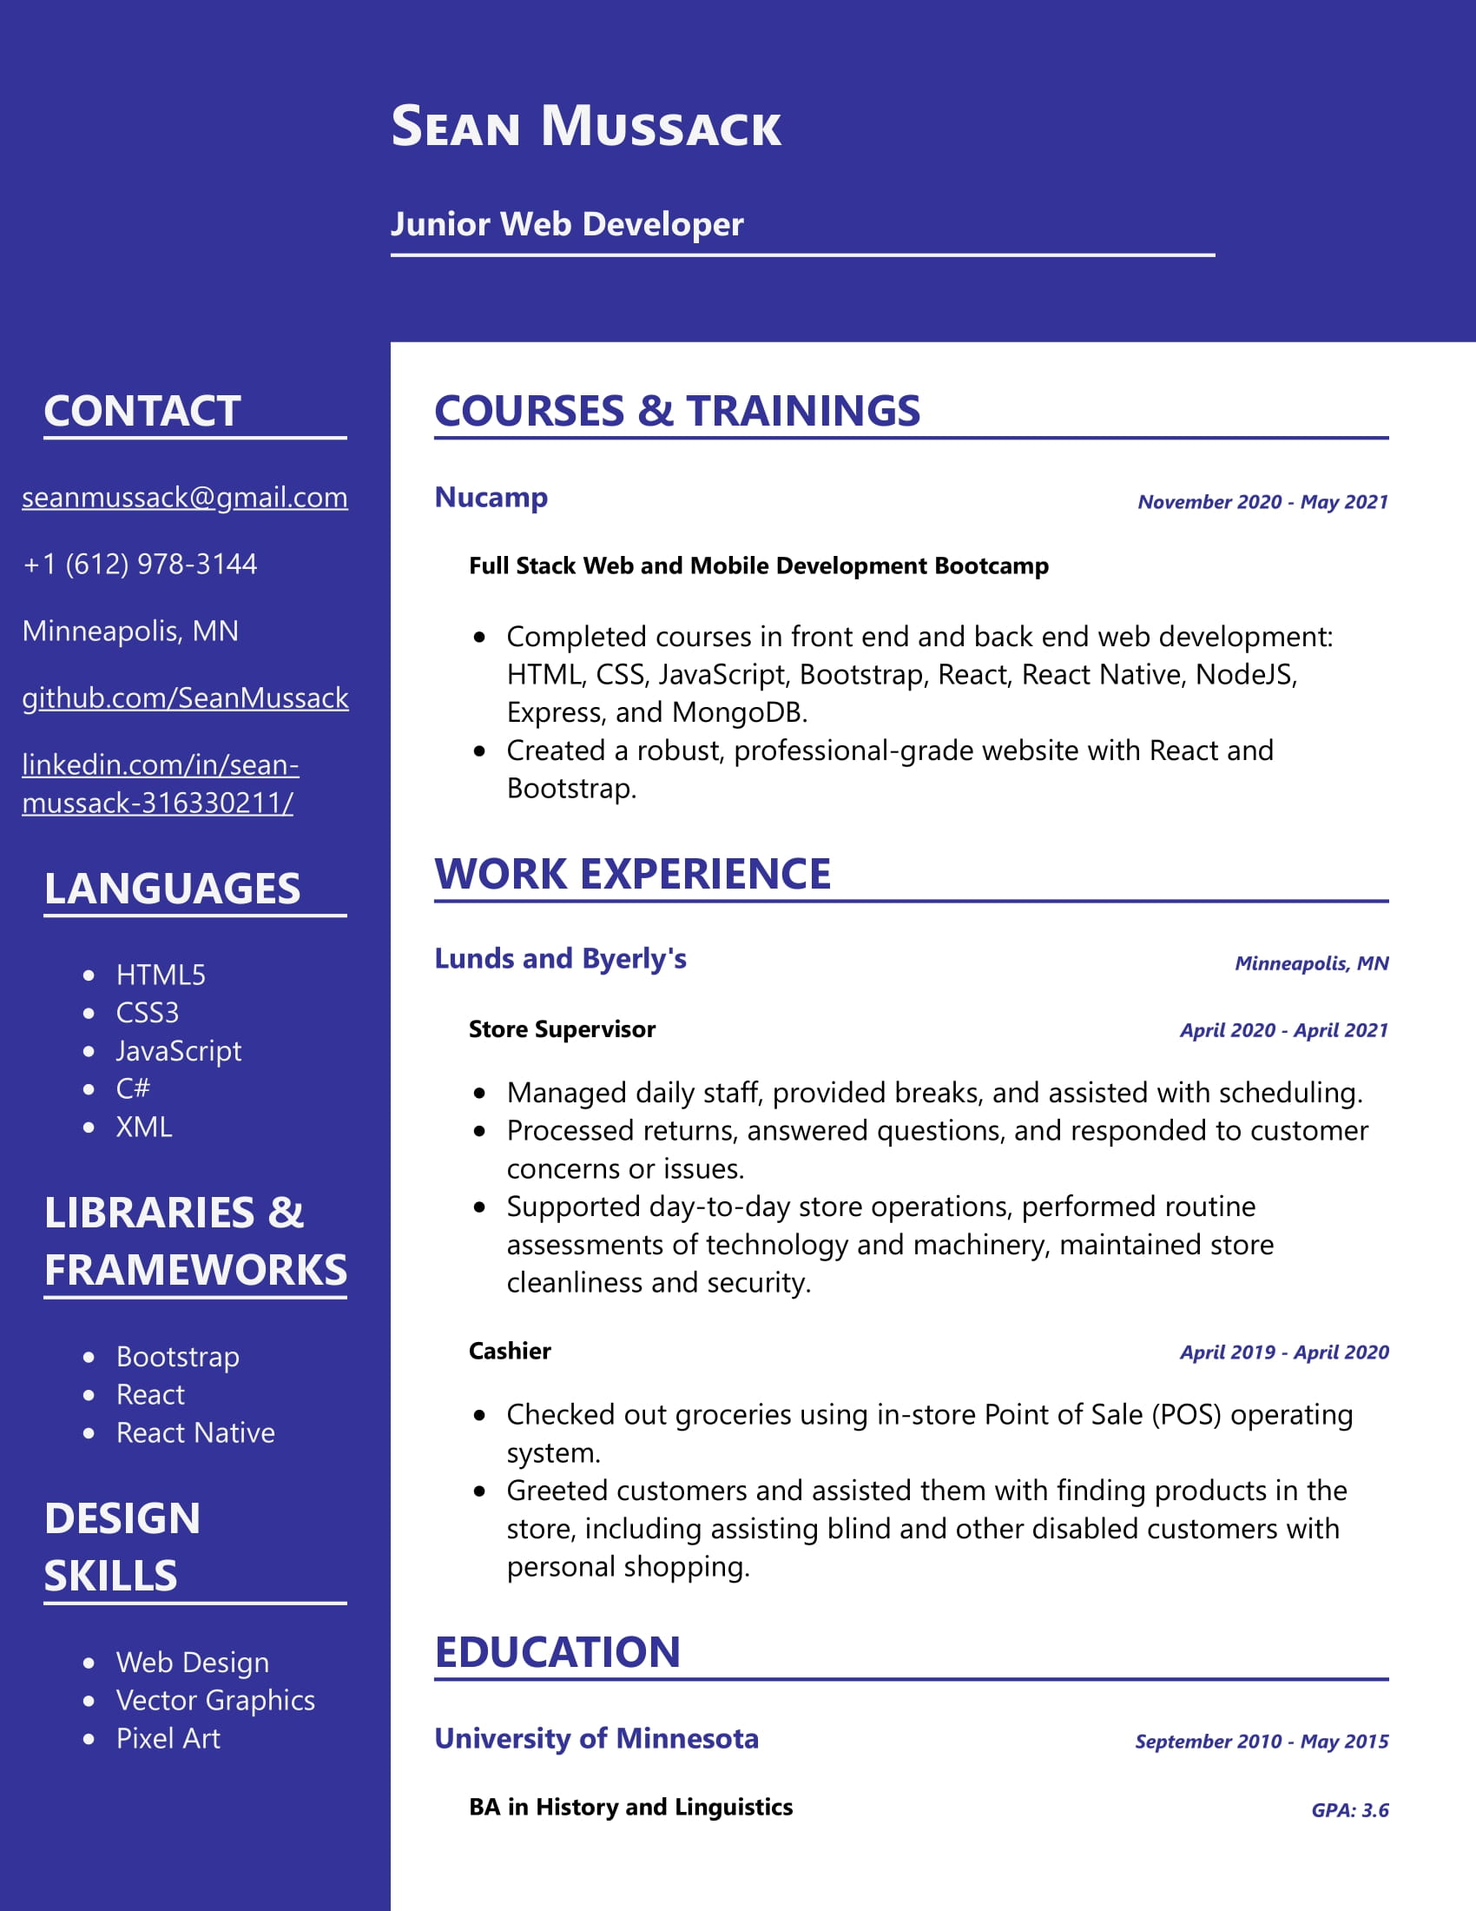
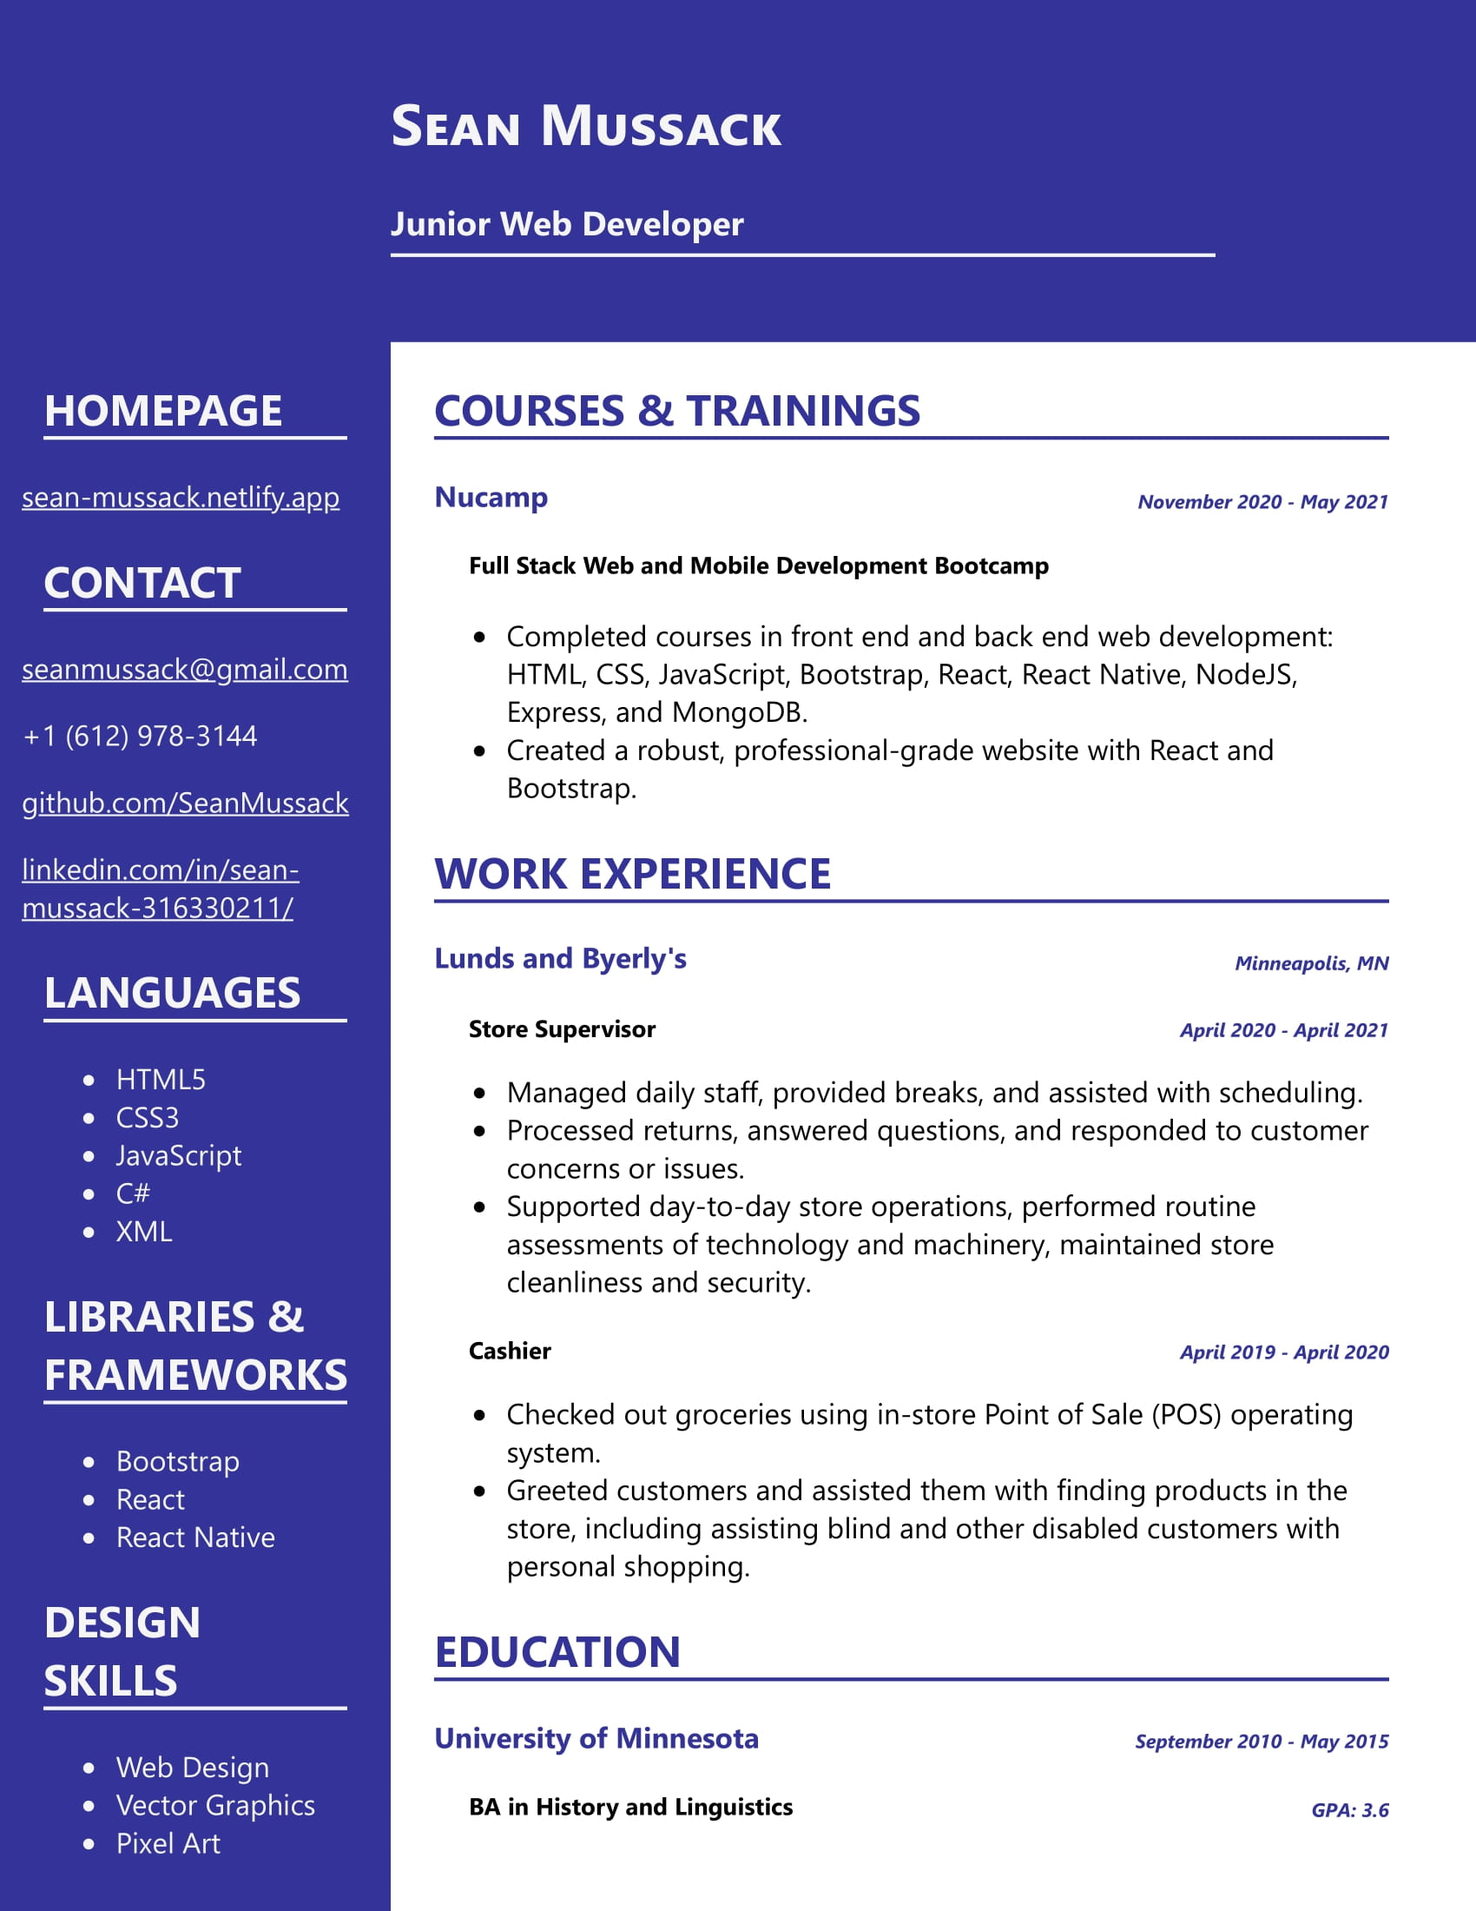
Updates

Changed region(s): [[0.0, 0.1855, 0.2494, 0.9891], [0.1559, 0.8036, 0.1871, 0.8345]]

diff --git a/static/js/main.2e8c46e6.chunk.js b/static/js/main.2e8c46e6.chunk.js
@@ -1,0 +1,2 @@
+(this["webpackJsonppersonal-website"]=this["webpackJsonppersonal-website"]||[]).push([[0],{34:function(e,t,n){},35:function(e,t,n){},51:function(e,t,n){"use strict";n.r(t);var s=n(2),a=n.n(s),r=n(18),c=n.n(r),i=(n(34),n(7)),l=n(8),o=n(11),j=n(10),b=(n.p,n(35),n(4)),m=n(19),u=n(52),h=n(53),d=n(54),O=n(55),x=n(16),f=n(0);function p(){return Object(f.jsx)(x.b,{to:"home",children:Object(f.jsx)("img",{src:"/sean-mussack-initials-final.svg",alt:"My personal logo: the letters S M",className:"logo"})})}function g(e){return Object(f.jsx)(s.Fragment,{children:e.map((function(e){return t=e,Object(f.jsx)(u.a,{className:"col-6 col-sm-3",children:Object(f.jsx)(x.b,{to:t.href,className:"nav-link py-1 py-sm-3",children:t.name})});var t}))})}var y=function(e){Object(o.a)(n,e);var t=Object(j.a)(n);function n(e){var s;return Object(i.a)(this,n),(s=t.call(this,e)).props={pages:null},s}return Object(l.a)(n,[{key:"render",value:function(){return Object(f.jsxs)(h.a,{className:"row-flex px-3",children:[Object(f.jsx)(d.a,{xs:6,sm:4,children:Object(f.jsx)(p,{})}),Object(f.jsx)(O.a,{className:"col-6 col-sm-8",children:g(this.props.pages)})]})}}]),n}(s.Component),v=n(56),N=n(57),w=n(15),T=function(e){Object(o.a)(n,e);var t=Object(j.a)(n);function n(e){var s;return Object(i.a)(this,n),(s=t.call(this,e)).props={pages:null},s}return Object(l.a)(n,[{key:"render",value:function(){return Object(f.jsx)(w.Stagger,{in:!0,className:"stagger",children:this.props.pages.map((function(e){return Object(f.jsx)(w.FadeTransform,{transformProps:{enterTransform:"translateX(0px)",exitTransform:"translateX(-20%)"},children:Object(f.jsx)("div",{className:"page-button-row row justify-content-center",children:Object(f.jsx)(x.b,{to:e.href,className:"page-button d-inline-flex justify-content-center btn color-"+e.color,children:Object(f.jsxs)(v.a,{className:"",children:[Object(f.jsx)(d.a,{className:"col-1 offset-3",children:Object(f.jsx)("i",{className:"fas fa-sm fa-"+e.icon,"aria-hidden":"true"})}),Object(f.jsx)(d.a,{className:"col-4 offset-0",children:e.name}),Object(f.jsx)(d.a,{className:"col-1 offset-0",children:Object(f.jsx)("i",{className:"fas fa-lg fa-angle-right","aria-hidden":"true"})})]})})})},e.name)}))})}}]),n}(s.Component),k=function(e){Object(o.a)(n,e);var t=Object(j.a)(n);function n(e){var s;return Object(i.a)(this,n),(s=t.call(this,e)).props={pages:null},s}return Object(l.a)(n,[{key:"render",value:function(){return Object(f.jsx)(N.a,{className:"home-page-container",children:Object(f.jsx)(T,{pages:this.props.pages})})}}]),n}(s.Component),F="/lily_md.jpg";function C(){return Object(f.jsx)("div",{className:"d-flex justify-content-center",children:Object(f.jsx)("img",{className:"avatar",src:"/avatar_md.jpg",alt:"My avatar"})})}function M(){return Object(f.jsx)(s.Fragment,{children:Object(f.jsxs)("p",{children:[Object(f.jsx)("h3",{children:"Hello world!"}),Object(f.jsxs)("ul",{children:[Object(f.jsx)("h5",{children:"Sean Mussack at a glance:"}),Object(f.jsx)("li",{children:"Location: Minneapolis, MN, USA"}),Object(f.jsx)("li",{children:"Pronouns: they/them or she/her"}),Object(f.jsx)("li",{children:"Pet: Lily the rabbit"})]}),Object(f.jsxs)("ul",{children:[Object(f.jsx)("h5",{children:"Things I Love:"}),Object(f.jsx)("li",{children:"Animals"}),Object(f.jsx)("li",{children:"Pixel Art"}),Object(f.jsx)("li",{children:"World History"})]})]})})}function P(){return Object(f.jsxs)(s.Fragment,{children:[Object(f.jsx)("div",{className:"d-none d-sm-flex justify-content-center",children:Object(f.jsx)("img",{className:"lily",src:F,alt:"My rabbit, Lily, who has white fur with black ears and eyes"})}),Object(f.jsx)("div",{className:"d-flex d-sm-none",children:Object(f.jsx)("img",{className:"lily position-absolute bottom-0 end-0 mb-5",src:F,alt:"My rabbit, Lily, who has white fur with black ears and eyes"})})]})}var S=function(e){Object(o.a)(n,e);var t=Object(j.a)(n);function n(){return Object(i.a)(this,n),t.apply(this,arguments)}return Object(l.a)(n,[{key:"render",value:function(){return Object(f.jsx)(N.a,{fluid:!0,className:"about-page-container",children:Object(f.jsxs)(v.a,{children:[Object(f.jsx)(d.a,{xs:12,sm:3,className:"offset-sm-1",children:Object(f.jsx)(w.FadeTransform,{in:!0,transformProps:{enterTransform:"translateX(0px)",exitTransform:"translateX(-20%)"},children:Object(f.jsx)(C,{})},"About")}),Object(f.jsx)(d.a,{xs:12,sm:4,children:Object(f.jsx)(w.Fade,{in:!0,children:Object(f.jsx)(M,{})})}),Object(f.jsx)(d.a,{children:Object(f.jsx)(w.FadeTransform,{in:!0,transformProps:{enterTransform:"translateX(0px)",exitTransform:"translateX(20%)"},children:Object(f.jsx)(P,{})},"About")})]})})}}]),n}(s.Component);function X(){return Object(f.jsxs)("a",{href:"/Sean Mussack's resume.pdf",download:!0,className:"btn btn-warning download-button",children:[Object(f.jsx)("i",{className:"fas fa-download"}),"Download"]})}var A=function(e){Object(o.a)(n,e);var t=Object(j.a)(n);function n(){return Object(i.a)(this,n),t.apply(this,arguments)}return Object(l.a)(n,[{key:"render",value:function(){return Object(f.jsx)(N.a,{fluid:!0,className:"resume-container",children:Object(f.jsxs)(v.a,{children:[Object(f.jsx)(d.a,{xs:12,sm:6,className:"resume-left-col",children:Object(f.jsxs)(w.FadeTransform,{in:!0,transformProps:{enterTransform:"translateX(0px)",exitTransform:"translateX(-20%)"},children:[Object(f.jsx)("p",{children:"PDF version of my resume:"}),Object(f.jsx)("p",{children:Object(f.jsx)(X,{})})]})}),Object(f.jsx)(d.a,{xs:12,sm:6,className:"px-md-5 mt-sm-5",children:Object(f.jsx)(w.FadeTransform,{in:!0,transformProps:{enterTransform:"translateX(0px)",exitTransform:"translateX(20%)"},children:Object(f.jsx)("img",{className:"resume-img img-fluid",src:"/Sean Mussack's resume-1.jpg",alt:"My resume in .pdf format"})},"About")})]})})}}]),n}(s.Component),L=[{name:"About",href:"about",color:"cyan",icon:"user"},{name:"Resume",href:"resume",color:"magenta",icon:"file"},{name:"Projects",href:"projects",color:"yellow",icon:"star"},{name:"Contact",href:"contact",color:"white",icon:"paper-plane"}],D=function(e){Object(o.a)(n,e);var t=Object(j.a)(n);function n(e){return Object(i.a)(this,n),t.call(this,e)}return Object(l.a)(n,[{key:"render",value:function(){return Object(f.jsxs)(s.Fragment,{children:[Object(f.jsx)(y,{pages:L}),Object(f.jsx)(m.TransitionGroup,{className:"transition-group",children:Object(f.jsx)(m.CSSTransition,{classNames:"page",timeout:300,children:Object(f.jsxs)(b.d,{className:"switch",children:[Object(f.jsx)(b.b,{path:"/home",render:function(){return Object(f.jsx)(k,{pages:L})}}),Object(f.jsx)(b.b,{path:"/about",component:S}),Object(f.jsx)(b.b,{path:"/resume",component:A}),Object(f.jsx)(b.a,{to:"/home"})]})},this.props.location.key)})]})}}]),n}(s.Component),I=Object(b.g)(D),B=function(e){Object(o.a)(n,e);var t=Object(j.a)(n);function n(){return Object(i.a)(this,n),t.apply(this,arguments)}return Object(l.a)(n,[{key:"render",value:function(){return Object(f.jsx)(x.a,{children:Object(f.jsx)("div",{className:"App",children:Object(f.jsx)(I,{})})})}}]),n}(s.Component),H=function(e){e&&e instanceof Function&&n.e(3).then(n.bind(null,58)).then((function(t){var n=t.getCLS,s=t.getFID,a=t.getFCP,r=t.getLCP,c=t.getTTFB;n(e),s(e),a(e),r(e),c(e)}))};n(49),n(50);c.a.render(Object(f.jsx)(a.a.StrictMode,{children:Object(f.jsx)(B,{})}),document.getElementById("root")),H()}},[[51,1,2]]]);
+//# sourceMappingURL=main.2e8c46e6.chunk.js.map

diff --git a/index.html b/index.html
@@ -1,1 +1,1 @@
-<!doctype html><html lang="en"><head><meta charset="utf-8"/><link rel="icon" href="/favicon.ico"/><meta name="viewport" content="width=device-width,initial-scale=1"/><meta name="theme-color" content="#000000"/><meta name="description" content="Web site created using create-react-app"/><link rel="apple-touch-icon" href="/logo192.png"/><link rel="manifest" href="/manifest.json"/><title>React App</title><link href="/static/css/2.f6015af9.chunk.css" rel="stylesheet"><link href="/static/css/main.67181102.chunk.css" rel="stylesheet"></head><body><noscript>You need to enable JavaScript to run this app.</noscript><div id="root"></div><script>!function(e){function r(r){for(var n,a,i=r[0],c=r[1],l=r[2],s=0,p=[];s<i.length;s++)a=i[s],Object.prototype.hasOwnProperty.call(o,a)&&o[a]&&p.push(o[a][0]),o[a]=0;for(n in c)Object.prototype.hasOwnProperty.call(c,n)&&(e[n]=c[n]);for(f&&f(r);p.length;)p.shift()();return u.push.apply(u,l||[]),t()}function t(){for(var e,r=0;r<u.length;r++){for(var t=u[r],n=!0,i=1;i<t.length;i++){var c=t[i];0!==o[c]&&(n=!1)}n&&(u.splice(r--,1),e=a(a.s=t[0]))}return e}var n={},o={1:0},u=[];function a(r){if(n[r])return n[r].exports;var t=n[r]={i:r,l:!1,exports:{}};return e[r].call(t.exports,t,t.exports,a),t.l=!0,t.exports}a.e=function(e){var r=[],t=o[e];if(0!==t)if(t)r.push(t[2]);else{var n=new Promise((function(r,n){t=o[e]=[r,n]}));r.push(t[2]=n);var u,i=document.createElement("script");i.charset="utf-8",i.timeout=120,a.nc&&i.setAttribute("nonce",a.nc),i.src=function(e){return a.p+"static/js/"+({}[e]||e)+"."+{3:"fefadf44"}[e]+".chunk.js"}(e);var c=new Error;u=function(r){i.onerror=i.onload=null,clearTimeout(l);var t=o[e];if(0!==t){if(t){var n=r&&("load"===r.type?"missing":r.type),u=r&&r.target&&r.target.src;c.message="Loading chunk "+e+" failed.\n("+n+": "+u+")",c.name="ChunkLoadError",c.type=n,c.request=u,t[1](c)}o[e]=void 0}};var l=setTimeout((function(){u({type:"timeout",target:i})}),12e4);i.onerror=i.onload=u,document.head.appendChild(i)}return Promise.all(r)},a.m=e,a.c=n,a.d=function(e,r,t){a.o(e,r)||Object.defineProperty(e,r,{enumerable:!0,get:t})},a.r=function(e){"undefined"!=typeof Symbol&&Symbol.toStringTag&&Object.defineProperty(e,Symbol.toStringTag,{value:"Module"}),Object.defineProperty(e,"__esModule",{value:!0})},a.t=function(e,r){if(1&r&&(e=a(e)),8&r)return e;if(4&r&&"object"==typeof e&&e&&e.__esModule)return e;var t=Object.create(null);if(a.r(t),Object.defineProperty(t,"default",{enumerable:!0,value:e}),2&r&&"string"!=typeof e)for(var n in e)a.d(t,n,function(r){return e[r]}.bind(null,n));return t},a.n=function(e){var r=e&&e.__esModule?function(){return e.default}:function(){return e};return a.d(r,"a",r),r},a.o=function(e,r){return Object.prototype.hasOwnProperty.call(e,r)},a.p="/",a.oe=function(e){throw console.error(e),e};var i=this["webpackJsonppersonal-website"]=this["webpackJsonppersonal-website"]||[],c=i.push.bind(i);i.push=r,i=i.slice();for(var l=0;l<i.length;l++)r(i[l]);var f=c;t()}([])</script><script src="/static/js/2.d72226ef.chunk.js"></script><script src="/static/js/main.4d2a8b5a.chunk.js"></script></body></html>
+<!doctype html><html lang="en"><head><meta charset="utf-8"/><link rel="icon" href="/favicon.ico"/><meta name="viewport" content="width=device-width,initial-scale=1"/><meta name="theme-color" content="#000000"/><meta name="description" content="Web site created using create-react-app"/><link rel="apple-touch-icon" href="/logo192.png"/><link rel="manifest" href="/manifest.json"/><title>React App</title><link href="/static/css/2.f6015af9.chunk.css" rel="stylesheet"><link href="/static/css/main.995d4231.chunk.css" rel="stylesheet"></head><body><noscript>You need to enable JavaScript to run this app.</noscript><div id="root"></div><script>!function(e){function r(r){for(var n,a,i=r[0],c=r[1],l=r[2],s=0,p=[];s<i.length;s++)a=i[s],Object.prototype.hasOwnProperty.call(o,a)&&o[a]&&p.push(o[a][0]),o[a]=0;for(n in c)Object.prototype.hasOwnProperty.call(c,n)&&(e[n]=c[n]);for(f&&f(r);p.length;)p.shift()();return u.push.apply(u,l||[]),t()}function t(){for(var e,r=0;r<u.length;r++){for(var t=u[r],n=!0,i=1;i<t.length;i++){var c=t[i];0!==o[c]&&(n=!1)}n&&(u.splice(r--,1),e=a(a.s=t[0]))}return e}var n={},o={1:0},u=[];function a(r){if(n[r])return n[r].exports;var t=n[r]={i:r,l:!1,exports:{}};return e[r].call(t.exports,t,t.exports,a),t.l=!0,t.exports}a.e=function(e){var r=[],t=o[e];if(0!==t)if(t)r.push(t[2]);else{var n=new Promise((function(r,n){t=o[e]=[r,n]}));r.push(t[2]=n);var u,i=document.createElement("script");i.charset="utf-8",i.timeout=120,a.nc&&i.setAttribute("nonce",a.nc),i.src=function(e){return a.p+"static/js/"+({}[e]||e)+"."+{3:"fefadf44"}[e]+".chunk.js"}(e);var c=new Error;u=function(r){i.onerror=i.onload=null,clearTimeout(l);var t=o[e];if(0!==t){if(t){var n=r&&("load"===r.type?"missing":r.type),u=r&&r.target&&r.target.src;c.message="Loading chunk "+e+" failed.\n("+n+": "+u+")",c.name="ChunkLoadError",c.type=n,c.request=u,t[1](c)}o[e]=void 0}};var l=setTimeout((function(){u({type:"timeout",target:i})}),12e4);i.onerror=i.onload=u,document.head.appendChild(i)}return Promise.all(r)},a.m=e,a.c=n,a.d=function(e,r,t){a.o(e,r)||Object.defineProperty(e,r,{enumerable:!0,get:t})},a.r=function(e){"undefined"!=typeof Symbol&&Symbol.toStringTag&&Object.defineProperty(e,Symbol.toStringTag,{value:"Module"}),Object.defineProperty(e,"__esModule",{value:!0})},a.t=function(e,r){if(1&r&&(e=a(e)),8&r)return e;if(4&r&&"object"==typeof e&&e&&e.__esModule)return e;var t=Object.create(null);if(a.r(t),Object.defineProperty(t,"default",{enumerable:!0,value:e}),2&r&&"string"!=typeof e)for(var n in e)a.d(t,n,function(r){return e[r]}.bind(null,n));return t},a.n=function(e){var r=e&&e.__esModule?function(){return e.default}:function(){return e};return a.d(r,"a",r),r},a.o=function(e,r){return Object.prototype.hasOwnProperty.call(e,r)},a.p="/",a.oe=function(e){throw console.error(e),e};var i=this["webpackJsonppersonal-website"]=this["webpackJsonppersonal-website"]||[],c=i.push.bind(i);i.push=r,i=i.slice();for(var l=0;l<i.length;l++)r(i[l]);var f=c;t()}([])</script><script src="/static/js/2.d72226ef.chunk.js"></script><script src="/static/js/main.2e8c46e6.chunk.js"></script></body></html>

diff --git a/static/css/main.995d4231.chunk.css b/static/css/main.995d4231.chunk.css
@@ -1,0 +1,2 @@
+body{margin:0;font-family:-apple-system,BlinkMacSystemFont,"Segoe UI","Roboto","Oxygen","Ubuntu","Cantarell","Fira Sans","Droid Sans","Helvetica Neue",sans-serif;-webkit-font-smoothing:antialiased;-moz-osx-font-smoothing:grayscale}code{font-family:source-code-pro,Menlo,Monaco,Consolas,"Courier New",monospace}body{max-height:-webkit-fit-content;max-height:-moz-fit-content;max-height:fit-content;overflow:hidden}.App{min-height:100vh;background-color:#111;color:#f5f5f5}.navbar{height:90px;background-color:#000;text-align:center}.logo{height:70px}.nav-item{font-size:larger}.nav-item .nav-link{color:#f5f5f5;border-radius:10px}.nav-item .nav-link:focus,.nav-item .nav-link:hover{color:#f5f5f5;background-color:#222}@media (prefers-reduced-motion:no-preference){.logo:hover{animation:Logo-wiggle .3s ease-out infinite}}@keyframes Logo-wiggle{0%{transform:rotate(0deg)}30%{transform:rotate(-5deg)}70%{transform:rotate(5deg)}to{transform:rotate(0deg)}}.home-page-container{margin:10vh;max-width:90%}.page-button{height:80px;margin:5vh}.page-button:hover{transform:scale3d(1.03,1.1,1)}.page-button-row .page-button,.page-button-row .page-button:hover{color:#000;font-weight:bolder}.page-button-row .color-white{background-color:#fff}.page-button-row .color-cyan{background-color:#0ff}.page-button-row .color-magenta{background-color:#f0f}.page-button-row .color-yellow{background-color:#ff0}.page-button .row{width:inherit;transform:translateY(20%)}.page-button .col{font-size:x-large}@media (prefers-reduced-motion:no-preference){.page-button:hover .fa-angle-right{animation:Arrow-icon-hover 1s linear infinite}.page-button:active{animation:Page-button-on-press 1s linear}}@keyframes Arrow-icon-hover{0%{transform:translateX(0)}to{transform:translateX(20vw)}}@keyframes Page-button-on-press{0%{transform:translateX(0)}to{transform:translateX(150vw)}}.about-page-container{text-align:center;padding-top:30px;max-height:calc(100vh - 90px)}.avatar,.lily{border-radius:200px}.avatar{width:30vh;border:0 solid #136}.about-page-container p{padding:10vh 0}.about-page-container h3{font-feature-settings:"smcp";font-variant:small-caps;margin-bottom:5vh}.about-page-container h5{font-weight:700}.about-page-container ul{text-align:left}.lily{width:20vh}@media (prefers-reduced-motion:no-preference){.avatar{animation:Avatar-float-around 15s ease-in-out infinite}.d-sm-flex .lily{animation:Lily-float-around 20s ease-in-out infinite}.d-sm-none .lily{animation:Lily-spin 20s linear infinite}}@keyframes Avatar-float-around{0%{transform:translateY(0)}50%{transform:translateY(16vw)}to{transform:translateY(0)}}@keyframes Lily-float-around{0%{transform:translateY(0)}50%{transform:translateY(20vw)}to{transform:translateY(0)}}@keyframes Lily-spin{0%{transform:rotate(0deg)}to{transform:rotate(1turn)}}.resume-container{padding:0}.resume-left-col{text-align:center;padding:15vw 0}.resume-container .download-button,.resume-container .download-button:active,.resume-container .download-button:hover{background-color:#ff0;color:#000;border:0;font-weight:700;font-feature-settings:"smcp";font-variant:small-caps;font-size:larger}.resume-container .fas{margin-right:10px}.resume-img{max-height:75vh;max-width:inherit}@media (prefers-reduced-motion:no-preference){.download-button:hover{animation:Download-button-hover .3s ease-in-out infinite}}@keyframes Download-button-hover{0%{transform:translateY(0)}50%{transform:translateY(-1vh)}to{transform:translateY(0)}}
+/*# sourceMappingURL=main.995d4231.chunk.css.map */
